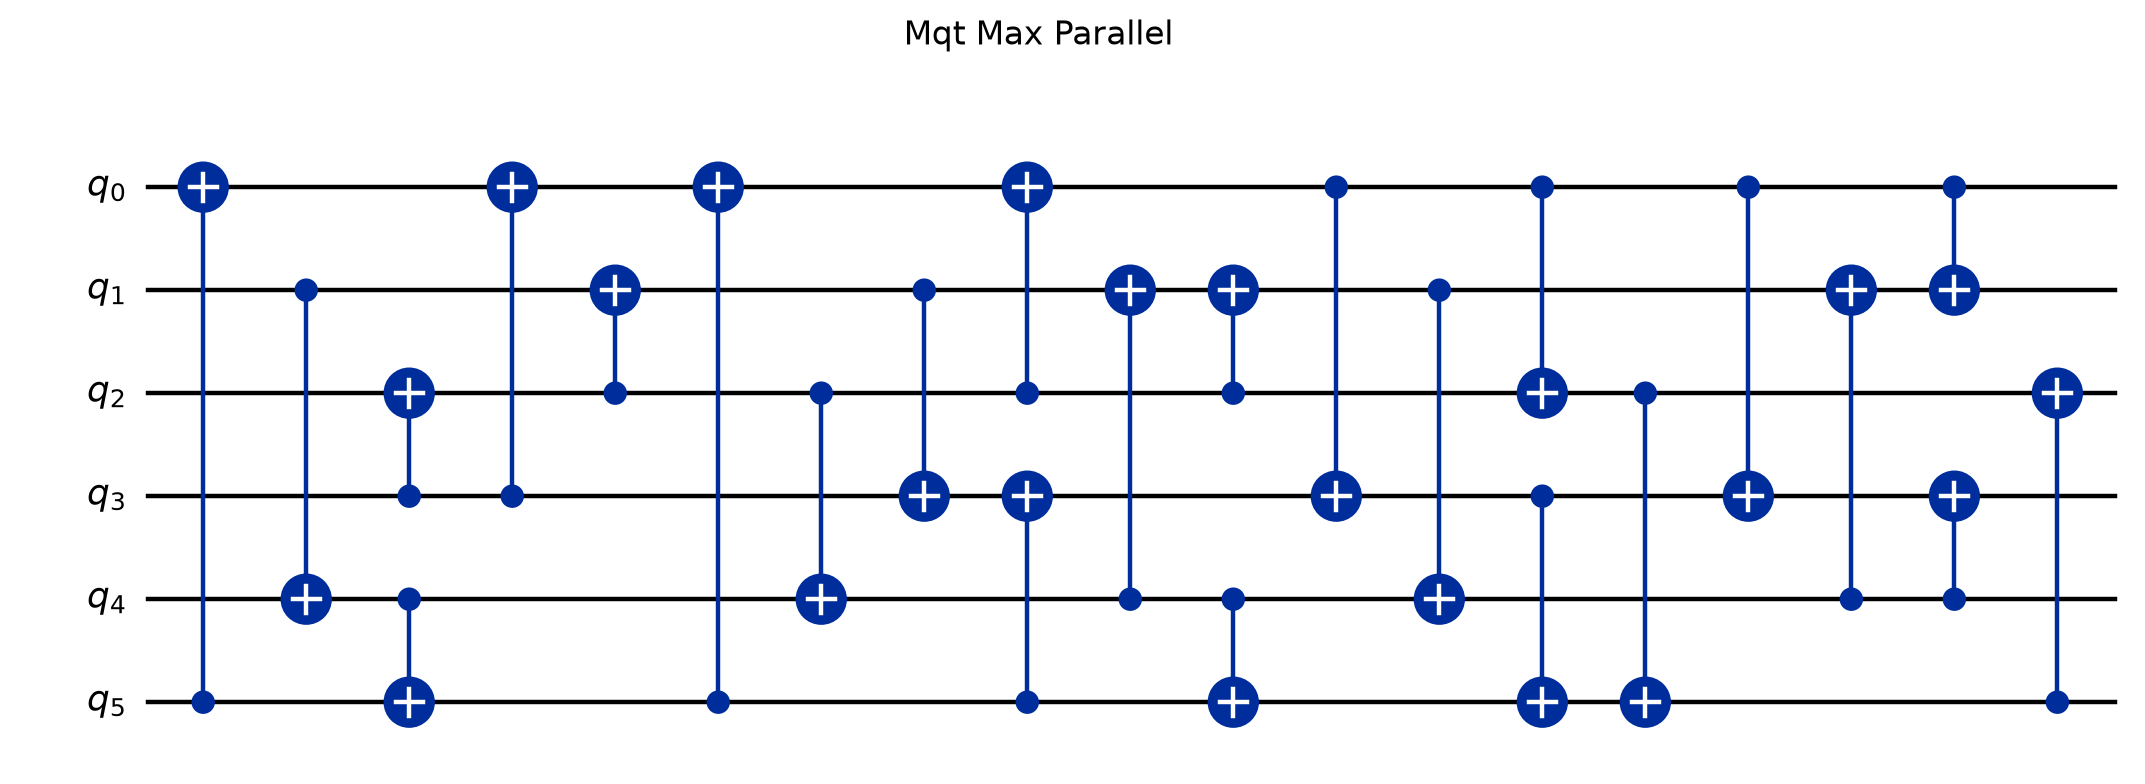
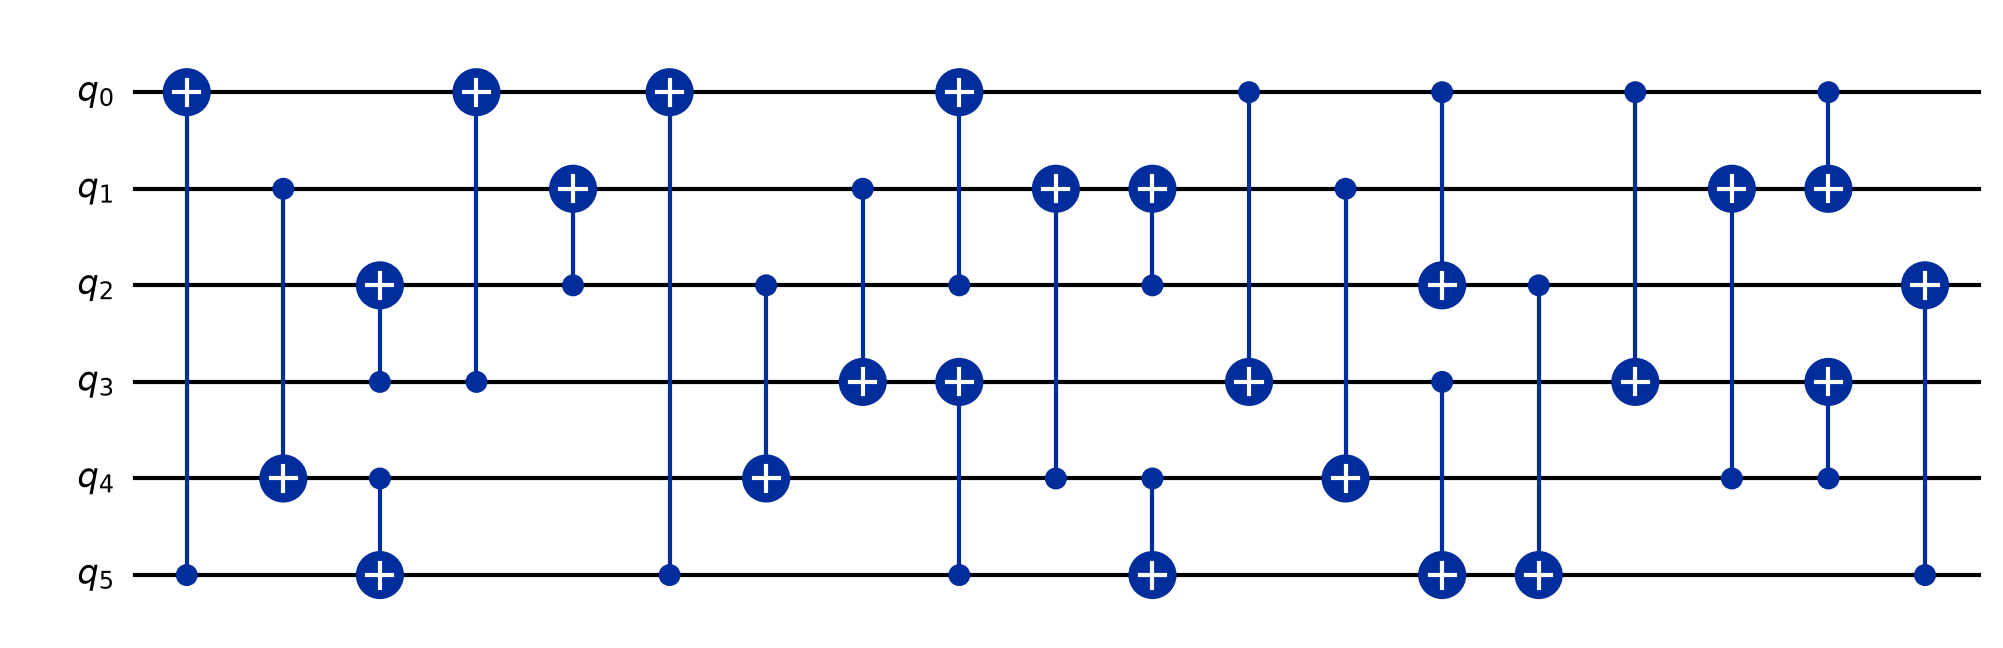
refactor additional_benchmarks

Changed region(s): [[0.031, 0.0926, 0.9905, 0.9259], [0.4024, 0.0309, 0.5572, 0.0617]]

diff --git a/additional_benchmarks/scripts/run_comparison.py b/additional_benchmarks/scripts/run_comparison.py
@@ -10,12 +10,14 @@ from typing import Any
 from qiskit import qasm2  # type: ignore[import-untyped]
 
 from render_structures import render  # pyright: ignore[reportImplicitRelativeImport]
+from run_topols import run as run_topols  # pyright: ignore[reportImplicitRelativeImport]
 
 ROOT = Path(__file__).resolve().parents[1]
 BENCHMARKS = ("mqt_max_parallel", "mqt_min_parallel")
 
 
-def commit(path: Path) -> str:
+def get_commit_id(path: Path) -> str:
+    """Return the HEAD commit ID of a Git repository."""
     result = subprocess.run(["git", "-c", f"safe.directory={path.as_posix()}",
                              "-C", str(path), "rev-parse", "HEAD"],
                             capture_output=True, text=True, check=True)
@@ -23,6 +25,7 @@ def commit(path: Path) -> str:
 
 
 def check_circuit(path: Path):
+    """Load a benchmark and verify its fixed size and gate set."""
     circuit = qasm2.load(path)
     if circuit.num_qubits != 6 or circuit.size() != 24 or set(circuit.count_ops()) != {"cx"}:
         raise ValueError(f"Expected a six-qubit, 24-CNOT circuit: {path}")
@@ -30,6 +33,7 @@ def check_circuit(path: Path):
 
 
 def source_hash() -> str:
+    """Hash the C++ headers used by the native comparison."""
     digest = hashlib.sha256()
     for path in sorted((ROOT.parent / "src" / "cpp").rglob("*.hpp")):
         digest.update(path.relative_to(ROOT.parent).as_posix().encode())
@@ -38,21 +42,22 @@ def source_hash() -> str:
 
 
 def main() -> None:
+    """Run both compilers, collect metrics, and render the comparison."""
     if sys.platform != "linux":
         raise SystemExit("Run this comparison under WSL/Linux.")
+    executable = ROOT / "work" / "ours_cnot"
+    if not executable.is_file():
+        raise FileNotFoundError("Compile work/ours_cnot as described in COMPARISON.md")
     work = ROOT / "work" / "comparison"
     if work.exists():
         shutil.rmtree(work)
     work.mkdir(parents=True)
-    executable = work / "ours_cnot"
-    subprocess.run(["g++", "-std=c++17", "-O2", "-D_GLIBCXX_ASSERTIONS",
-                    str(ROOT / "scripts" / "ours_cnot.cpp"), "-o", str(executable)], check=True)
 
     report: dict[str, Any] = {
         "inputs": {},
-        "commits": {"this_work": commit(ROOT.parent),
-                    "topols": commit(ROOT / "external" / "TopoLS"),
-                    "mqt_qecc": commit(ROOT / "external" / "mqt_qecc")},
+        "commits": {"this_work": get_commit_id(ROOT.parent),
+                    "topols": get_commit_id(ROOT / "external" / "TopoLS"),
+                    "mqt_qecc": get_commit_id(ROOT / "external" / "mqt_qecc")},
         "this_work_source_sha256": source_hash(),
         "configuration": {
             "this_work": "one layer; outer factories; SA seed 1, 1,000,000 iterations; Double look-ahead; CareKinkParity",
@@ -88,15 +93,14 @@ def main() -> None:
         geometries[("ours", name)] = {"depth": ours["depth"], "geometry": geometry}
 
         output = work / f"topols-{name}"
-        subprocess.run([sys.executable, str(ROOT / "scripts" / "run_topols.py"),
-                        str(qasm_path), str(output)], check=True, timeout=600)
+        run_topols(qasm_path, output)
         topols = json.loads((output / "metrics.json").read_text())
         topols.update({"tool": "topols", "benchmark": name, "status": "passed",
                        "depth_unit": "pipe-diagram time coordinate", "storage_density": None})
         report["rows"].append(topols)
         geometries[("topols", name)] = json.loads((output / "geometry.json").read_text())
 
-    results = ROOT / "results" / "comparison.json"
+    results = ROOT / "comparison.json"
     results.write_text(json.dumps(report, indent=2) + "\n")
     name = "mqt_min_parallel"
     ours_geometry = work / f"ours-{name}.json"

diff --git a/additional_benchmarks/scripts/run_topols.py b/additional_benchmarks/scripts/run_topols.py
@@ -10,10 +10,8 @@ from pathlib import Path
 ROOT = Path(__file__).resolve().parents[1]
 
 
-def main() -> None:
-    if len(sys.argv) != 3:
-        raise SystemExit("usage: run_topols.py INPUT.qasm OUTPUT_DIRECTORY")
-    source, output = Path(sys.argv[1]).resolve(), Path(sys.argv[2]).resolve()
+def run(source: Path, output: Path) -> None:
+    source, output = source.resolve(), output.resolve()
     name = source.stem
     output.mkdir(parents=True, exist_ok=True)
     (output / "benchmark").mkdir()
@@ -31,18 +29,21 @@ def main() -> None:
             "vertices": graph.num_vertices(), "edges": graph.num_edges()}})
         return result
 
-    pipeline.zx_optimization = audited
     program = ROOT / "external" / "TopoLS" / "docs" / "prog.py"
-    sys.argv = [str(program), "-f", name, "-b", "10", "-zx", "1",
-                "-dir", "1", "-l", "4", "-r", "0", "-s", "5",
-                "-t", "3", "-i", "10000", "-csv", "metrics",
-                "-sp", "0", "--engine", "python"]
+    old_argv = sys.argv
     old_cwd = Path.cwd()
     try:
+        pipeline.zx_optimization = audited
+        sys.argv = [str(program), "-f", name, "-b", "10", "-zx", "1",
+                    "-dir", "1", "-l", "4", "-r", "0", "-s", "5",
+                    "-t", "3", "-i", "10000", "-csv", "metrics",
+                    "-sp", "0", "--engine", "python"]
         os.chdir(output)
         runpy.run_path(str(program), run_name="__main__")
     finally:
         os.chdir(old_cwd)
+        sys.argv = old_argv
+        pipeline.zx_optimization = original
 
     data = pickle.loads((output / "result" / "topols" / f"{name}.pkl").read_bytes())
     audit = calls[0]
@@ -59,6 +60,12 @@ def main() -> None:
                 "paths": [[list(point) for point in path] for path in data["path_hist"]]}
     (output / "metrics.json").write_text(json.dumps(metrics, indent=2) + "\n")
     (output / "geometry.json").write_text(json.dumps(geometry) + "\n")
+
+
+def main() -> None:
+    if len(sys.argv) != 3:
+        raise SystemExit("usage: run_topols.py INPUT.qasm OUTPUT_DIRECTORY")
+    run(Path(sys.argv[1]), Path(sys.argv[2]))
 
 
 if __name__ == "__main__":

diff --git a/additional_benchmarks/benchmarks/generate_benchmarks.py b/additional_benchmarks/benchmarks/generate_benchmarks.py
@@ -1,0 +1,27 @@
+"""Regenerate the two fixed QASM inputs used in the comparison."""
+from pathlib import Path
+
+from mqt.qecc.cococo.circuit_construction import (
+    generate_max_parallel_circuit,
+    generate_min_parallel_circuit,
+)
+from qiskit import QuantumCircuit  # type: ignore[import-untyped]
+
+OUTPUT = Path(__file__).resolve().parent
+FIGURES = OUTPUT.parent / "figures"
+
+
+def write(name: str, operations: list[tuple[int, int]]) -> None:
+    lines = ["OPENQASM 2.0;", 'include "qelib1.inc";', "qreg q[6];"]
+    lines += [f"cx q[{control}],q[{target}];" for control, target in operations]
+    (OUTPUT / f"{name}.qasm").write_text("\n".join(lines) + "\n", newline="\n")
+    circuit = QuantumCircuit(6, name=name.replace("_", " ").title())
+    for control, target in operations:
+        circuit.cx(control, target)
+    circuit.draw(output="mpl", filename=str(FIGURES / f"{name}.png"), fold=-1)
+
+
+if __name__ == "__main__":
+    write("mqt_max_parallel", generate_max_parallel_circuit(q=6, min_depth=24, seed=45))
+    write("mqt_min_parallel", generate_min_parallel_circuit(
+        q=6, min_depth=24, layer_size=2, seed=45))

diff --git a/additional_benchmarks/tests/test_comparison.py b/additional_benchmarks/tests/test_comparison.py
@@ -27,7 +27,7 @@ class ComparisonTest(unittest.TestCase):
             self.assertEqual(actual, generated[name])
 
     def test_checked_in_results(self):
-        rows = json.loads((ROOT / "results" / "comparison.json").read_text())["rows"]
+        rows = json.loads((ROOT / "comparison.json").read_text())["rows"]
         self.assertEqual({(row["tool"], row["benchmark"]) for row in rows},
                          {(tool, name) for tool in ("this_work", "topols")
                           for name in BENCHMARKS})

diff --git a/additional_benchmarks/COMPARISON.md b/additional_benchmarks/COMPARISON.md
@@ -1,51 +1,65 @@
 # Reviewer 1 comparison
 
-This directory contains one deliberately small comparison between the planar
-compiler in this work and TopoLS. It is intended to expose their different
-representations and resource assumptions, not to rank unlike native metrics.
+## Reproduction
+
+Run the following commands from this directory under Linux or WSL.
+The only system requirements are `uv` and a C++17 compiler available as `g++`.
+
+```bash
+git submodule update --init --recursive
+uv sync --frozen
+
+# Build the C++ implementation of our CNOT decomposition.
+mkdir -p work
+g++ -std=c++17 -O2 -D_GLIBCXX_ASSERTIONS scripts/ours_cnot.cpp -o work/ours_cnot
+
+# Results:
+# - benchmarks/mqt_max_parallel.qasm
+# - benchmarks/mqt_min_parallel.qasm
+# - figures/mqt_max_parallel.png
+# - figures/mqt_min_parallel.png
+uv run python benchmarks/generate_benchmarks.py
+
+# This runs both inputs through
+# - scripts/run_topols.py
+# - scripts/render_structures.py
+uv run python scripts/run_comparison.py
+
+# This checks that the outputs match the checked-in reference results.
+uv run python tests/test_comparison.py -v
+```
 
 ## Inputs and configurations
 
-The checked-in OpenQASM inputs are generated by MQT QECC commit
-`f3c26db10727174af2d2d7c02d1fbee70162a1c0`. Both contain six qubits and 24
-CNOTs (seed 45): `mqt_max_parallel` maximizes layer parallelism, while
-`mqt_min_parallel` uses `layer_size=2` and deliberate qubit reuse.
+The checked-in OpenQASM inputs are generated by MQT QECC.
+Both contain six qubits and 24 CNOTs (seed 45).
+`mqt_max_parallel` maximizes layer parallelism, while `mqt_min_parallel` uses `layer_size=2` and deliberate qubit reuse.
 
-Our configuration uses the existing one-layer outer allocator (SA seed 1,
-1,000,000 iterations), Double look-ahead scheduling, `CareKinkParity`, and the
-native schedule validator. TopoLS uses block size 10, ZX and direction
-optimization, the Python reference engine, initial seed 0, and its five-seed
-search. Inputs and external implementations are unchanged.
-
-Run from this directory under WSL/Linux:
-
-```bash
-work/venv-wsl/bin/python scripts/run_comparison.py
-work/venv-wsl/bin/python -m unittest discover -s tests -v
-```
+Our configuration uses the existing one-layer outer allocator (SA seed 1, 1,000,000 iterations), Double look-ahead scheduling, `CareKinkParity`, and the native schedule validator.
+TopoLS uses block size 10, ZX and direction optimization, the Python reference engine, initial seed 0, and its five-seed search.
+Inputs and external implementations are unchanged.
 
 ## Results
 
 | Circuit | This work: depth / allocated sites / occupied volume | TopoLS: depth / space / bounding-box volume | ZX vertices |
-|---|---:|---:|---:|
+| :---: | :---: | :---: | :---: |
 | max parallel | 11 / 81 / 178 | 22 / 45 / 990 | 60 → 47 |
 | min parallel | 11 / 81 / 166 | 16 / 45 / 720 | 60 → 48 |
 
-The units and accounting boundaries differ. Our depth is measured in code
-beats. Its occupied volume counts persistent data storage and routed ancillary
-sites, whereas allocated volume is the full 9×9 grid times depth (891 for both
-circuits). TopoLS reports pipe-diagram coordinates and their geometric bounding
-box. These numbers must therefore not be divided into a cross-tool improvement
-factor.
+The units and accounting boundaries differ.
+Our depth is measured in code beats.
+Its occupied volume counts persistent data storage and routed ancillary sites, whereas allocated volume is the full 9×9 grid times depth (891 for both circuits).
+TopoLS reports pipe-diagram coordinates and their geometric bounding box.
+These numbers must therefore not be divided into a cross-tool improvement factor.
 
-Our regular layout has nine candidate data slots in 81 sites (11.1% at this
-small size) and six active data patches (7.4%). Its data-slot density approaches
-25% asymptotically; the 16 boundary MSF sites are allocated separately. TopoLS
-instead simplifies and slices a ZX graph before placing merge–split structure
-in 3D, so no static storage-density parameter is defined for it. The reductions
-in ZX vertices above show the pre-placement merging, but are not themselves
+Our regular layout has nine candidate data slots in 81 sites (11.1% at this small size) and six active data patches (7.4%).
+Its data-slot density approaches 25% asymptotically.
+The 16 boundary MSF sites are allocated separately.
+TopoLS instead simplifies and slices a ZX graph before placing merge–split structure in 3D, so no static storage-density parameter is defined for it.
+The reductions in ZX vertices above show the pre-placement merging, but are not themselves
 volume reductions.
 
-`results/comparison.json` records exact inputs, revisions, settings, metrics,
-and accounting fields. `figures/structure_comparison.png` renders the
+`comparison.json` records exact inputs, revisions, settings, metrics, and accounting fields.
+
+`figures/structure_comparison.png` renders the
 min-parallel outputs with a shared coordinate convention and drawing style.
